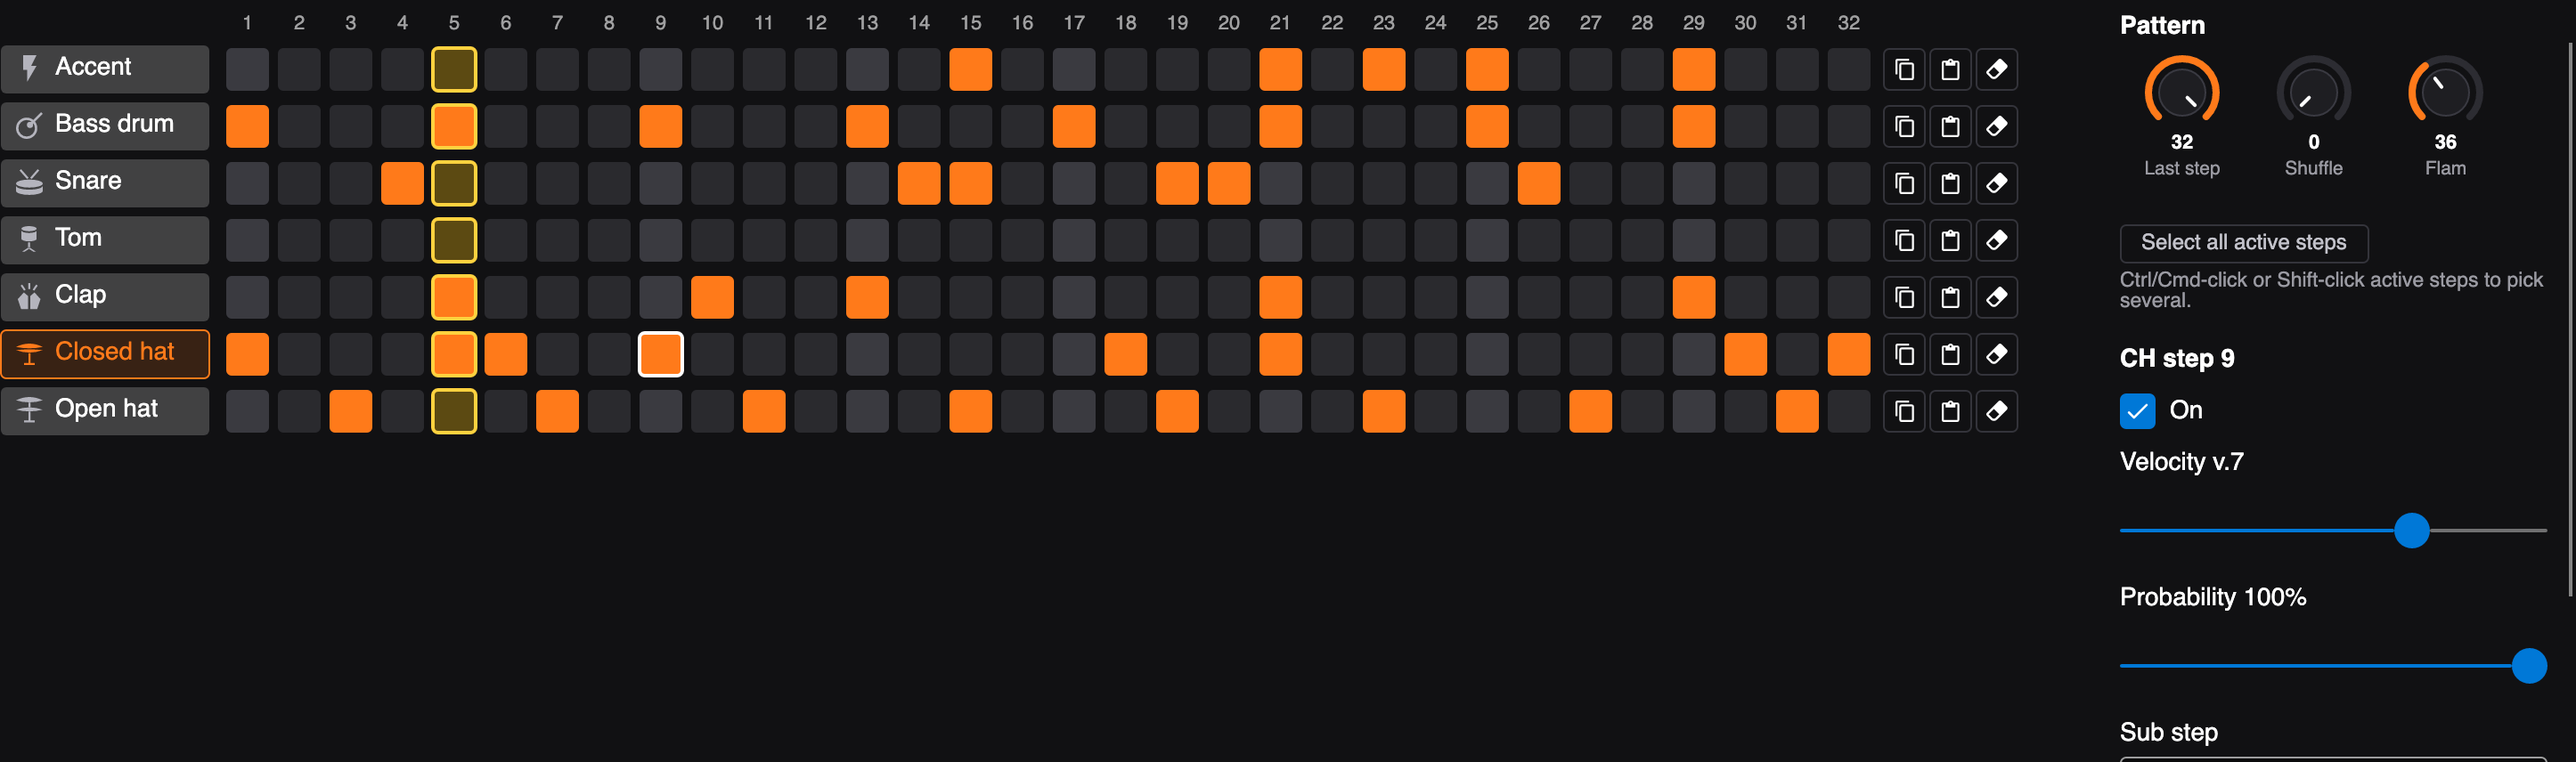
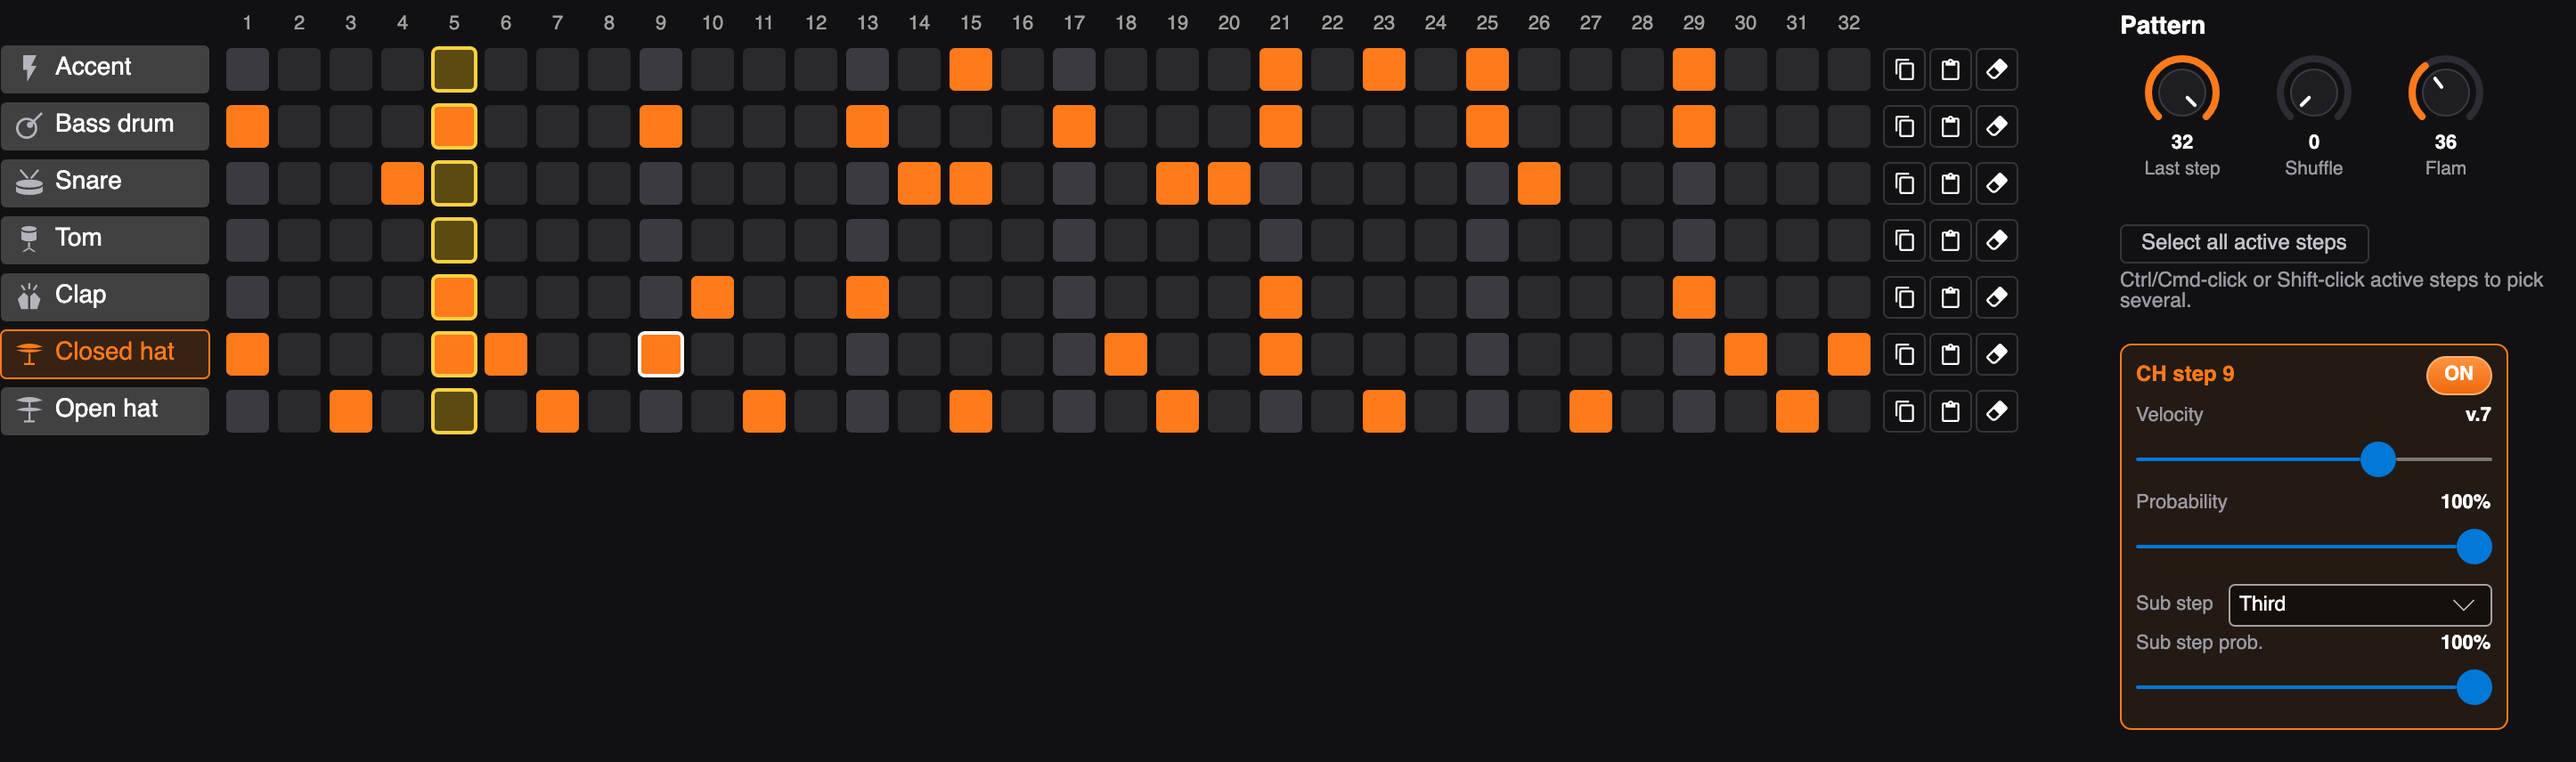
Rhythm: the single-step inspector looks like the multi-select panel
The inspector for one selected step is now the same compact panel as
the multi-select one, outlined in orange: the step name, an ON chip,
Velocity and Probability with their values on the right, the Sub step
combo and its probability, with the smaller fonts and the panel width
of the pattern knobs. New test; README and screenshots updated.

diff --git a/tests/T8.Editor.Tests/MainWindowTests.cs b/tests/T8.Editor.Tests/MainWindowTests.cs
@@ -362,6 +362,39 @@ public class MainWindowTests
     }
 
     [AvaloniaFact]
+    public void One_selected_step_is_edited_in_a_panel_like_the_multi_select_one()
+    {
+        var (window, vm) = Show();
+        var cell = vm.Rhythm.Tracks[1].Cells[3];
+        vm.Rhythm.SelectedCell = cell;
+        window.UpdateLayout();
+        var editor = window.GetVisualDescendants().OfType<RhythmEditorView>().Single();
+        var panel = editor.FindControl<Border>("Inspector")!;
+
+        Assert.True(panel.IsEffectivelyVisible);
+        Assert.Contains("batch", panel.Classes);
+        Assert.Equal(cell.Description, editor.FindControl<TextBlock>("SelectedStepText")!.Text);
+        Assert.Contains("batch", editor.FindControl<Slider>("VelocitySlider")!.Classes);
+        Assert.Contains("batch", editor.FindControl<ComboBox>("SubStepPicker")!.Classes);
+
+        var on = editor.FindControl<ToggleButton>("SelectedStepOnToggle")!;
+        var wasOn = cell.On;
+        on.IsChecked = !wasOn;
+        Assert.Equal(!wasOn, cell.On);
+        cell.On = true;
+        editor.FindControl<Slider>("VelocitySlider")!.Value = 3;
+        Assert.Equal(3, cell.Velocity);
+
+        // With several steps picked, the multi-select panel shows instead.
+        vm.Rhythm.SelectAllActiveCommand.Execute(null);
+        window.UpdateLayout();
+        Assert.False(panel.IsEffectivelyVisible);
+        Assert.True(editor.FindControl<Border>("BatchInspector")!.IsEffectivelyVisible);
+        window.Close();
+        vm.Dispose();
+    }
+
+    [AvaloniaFact]
     public void Each_row_name_has_its_own_drum_icon()
     {
         var (window, vm) = Show();

diff --git a/README.md b/README.md
@@ -221,7 +221,7 @@ stored in it is kept when you save.) Each column is one of 32 steps; the brighte
 
 - Click a cell to turn it on or off. The cell you clicked is outlined in white and shown in the inspector on
   the right.
-- **Inspector:** On, **Velocity** (v.0–v.10, the T-8 uses v.7 for new notes), **Probability** (how often the step
+- **Inspector** (an orange panel, laid out like the multi-select one): an **ON** chip, **Velocity** (v.0–v.10, the T-8 uses v.7 for new notes), **Probability** (how often the step
   plays, as on the T-8), **Sub step** (Half, Third or Quarter: 2, 3 or 4 hits in the step; Flam: a quiet hit just
   before) and the sub step's own probability.
 - **Pattern** knobs: **Last step** (1–32, steps after it are dimmed), **Shuffle** (0–200, delays every second
